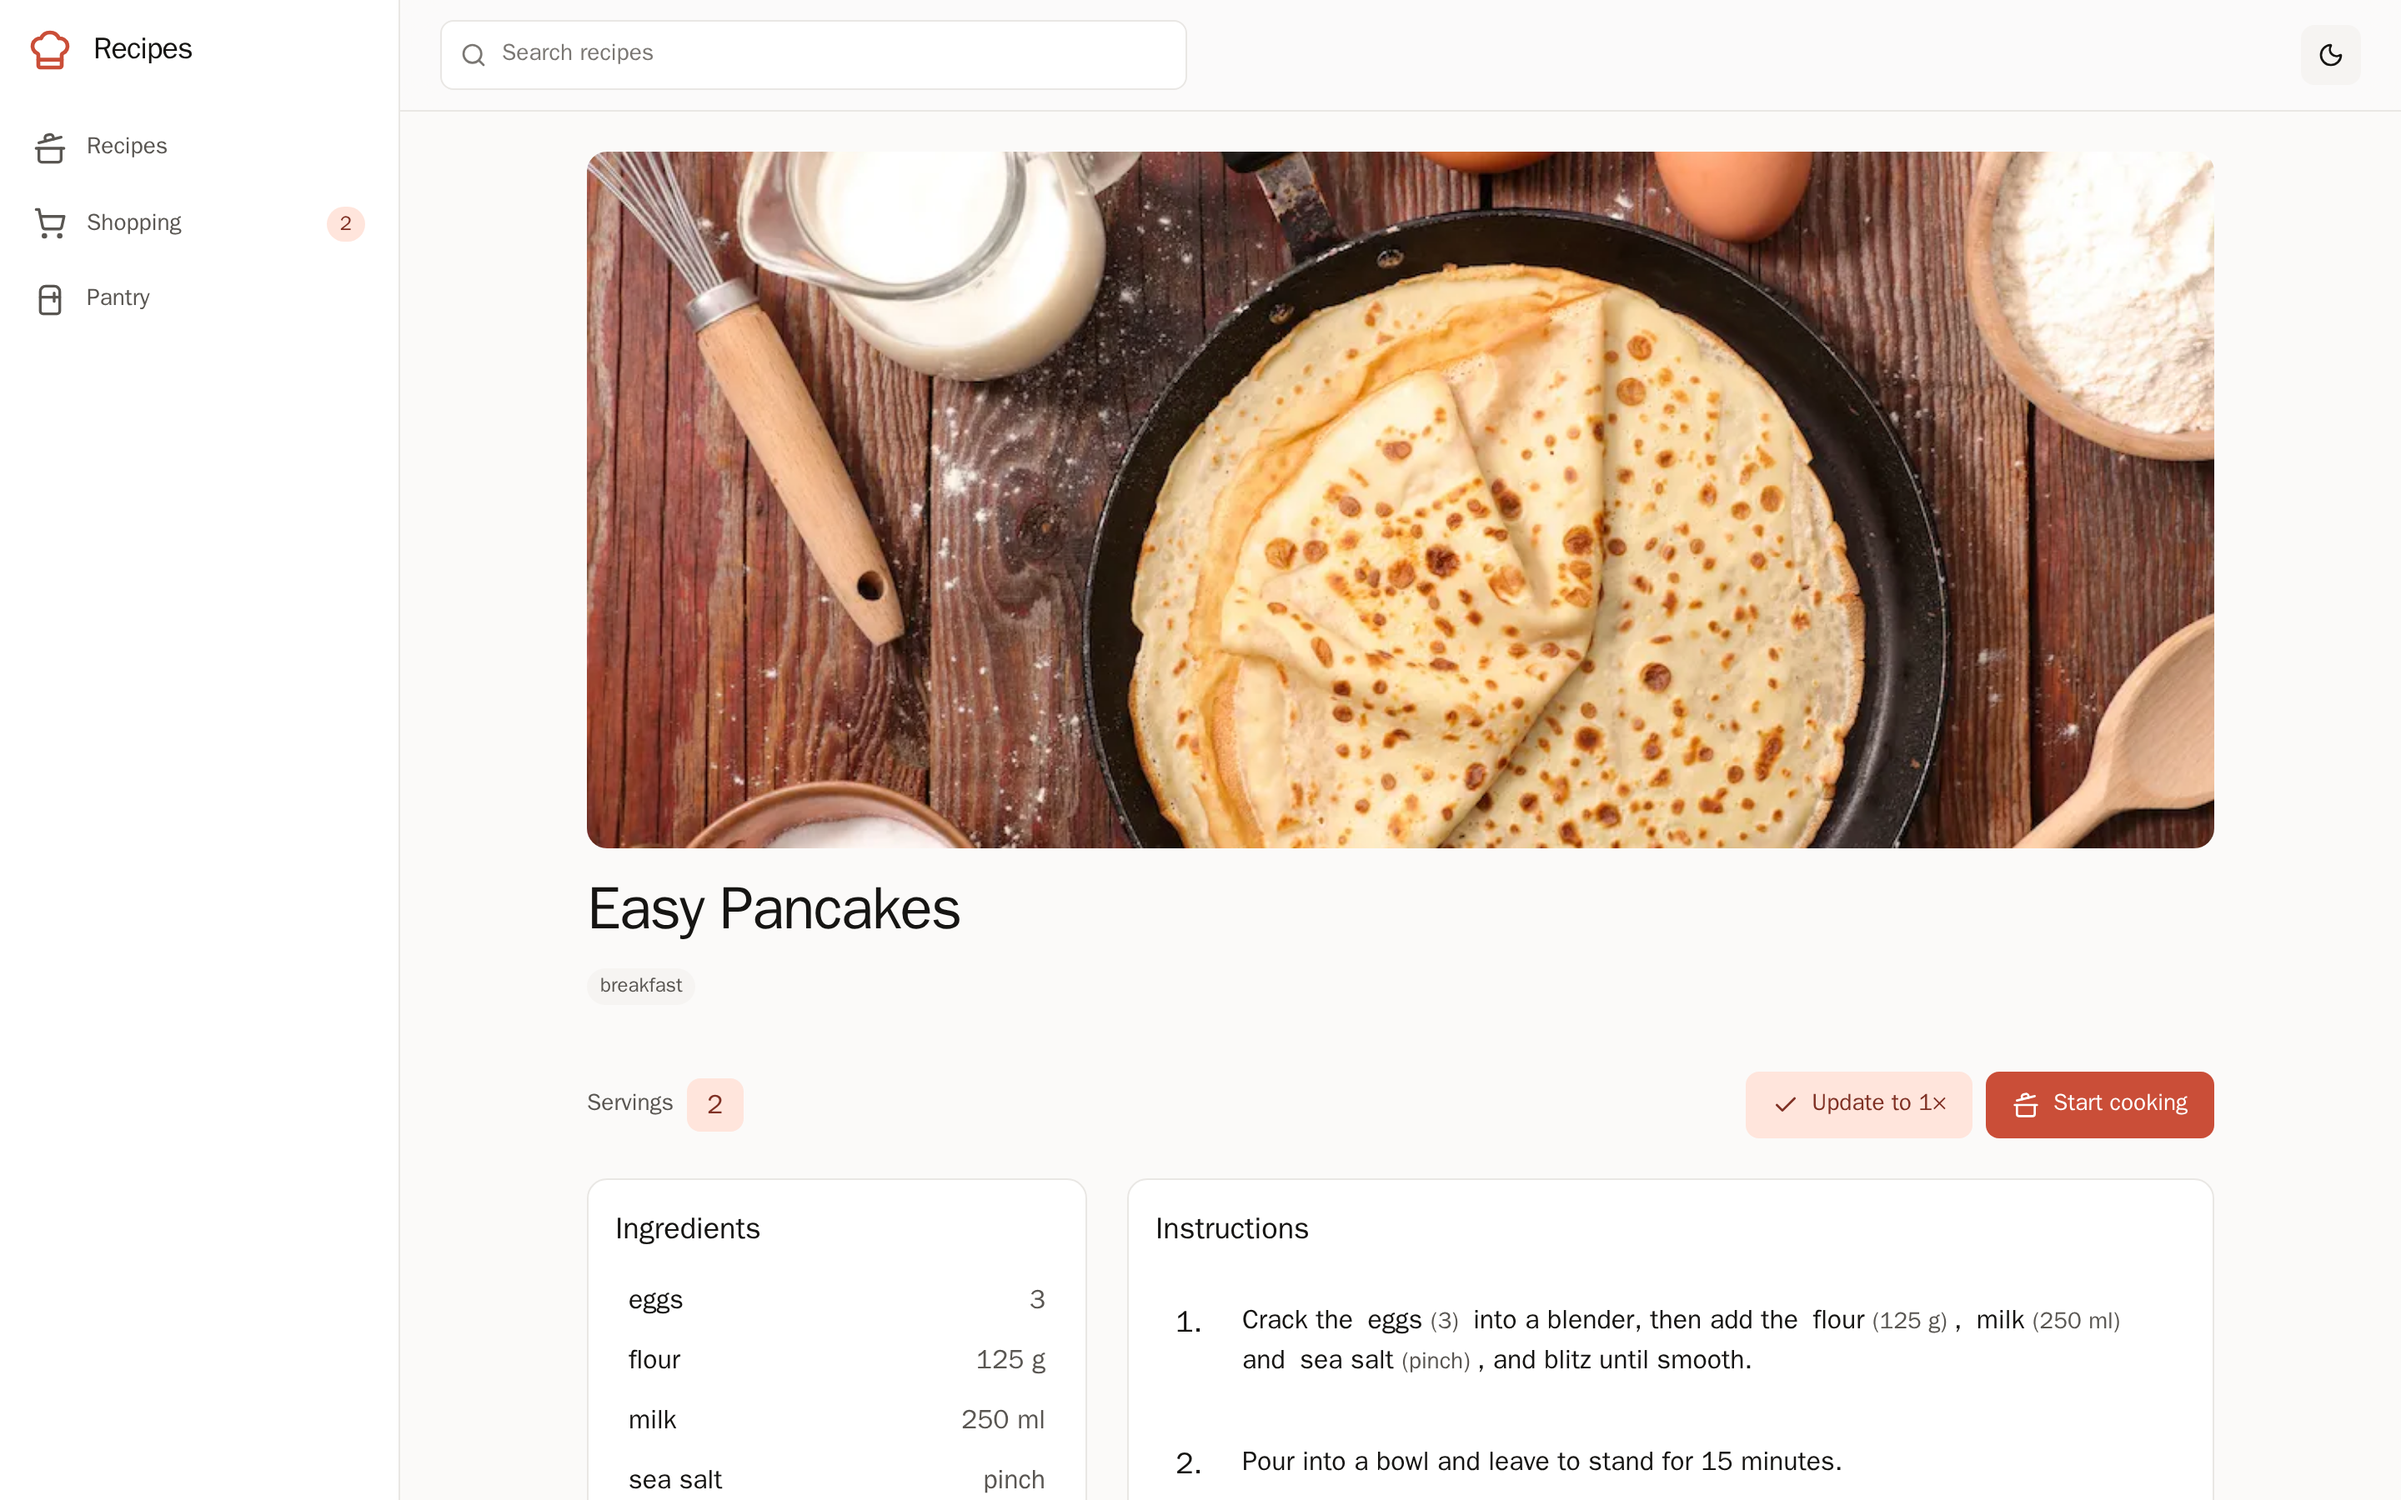
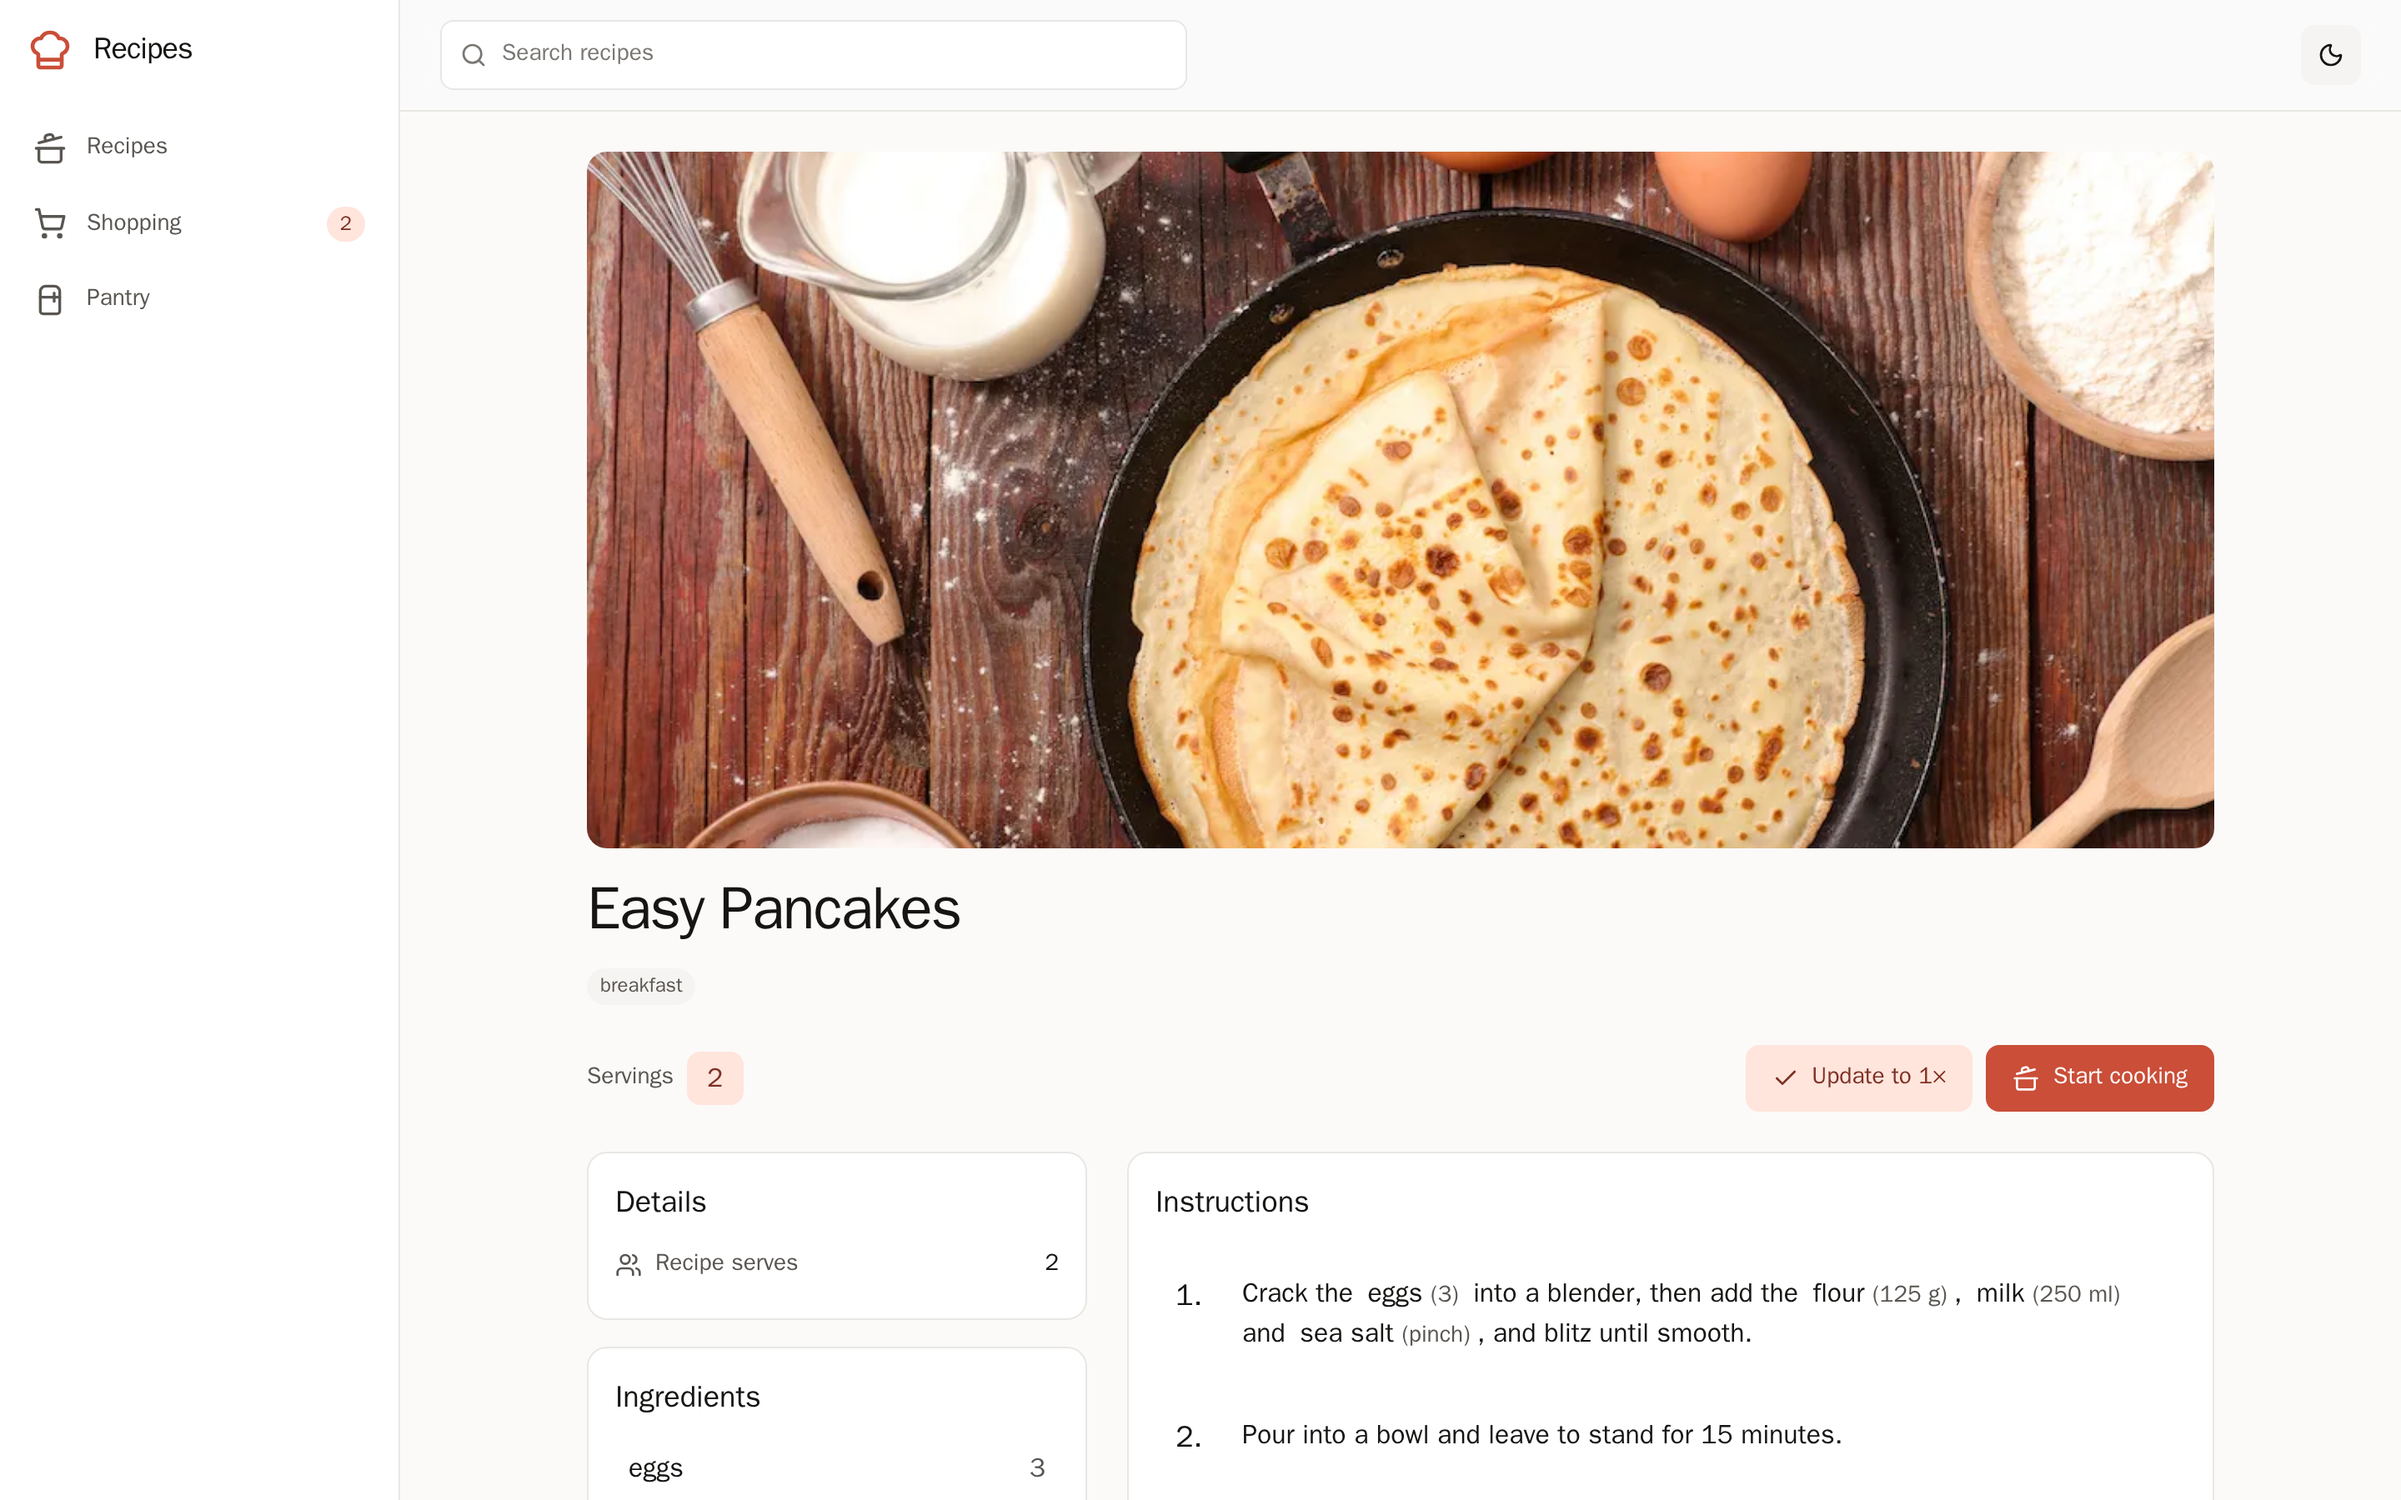
feat: show recipe frontmatter in a details box beside the ingredients
Servings, times, author and source were a single run-together line of muted
text under the title, where it was not obvious which number meant what. They
now sit in a labelled box at the top of the sidebar, above the ingredients,
one row per field with an icon and a right-aligned value.

Also carries `course` through to the detail page, which the index already
read but the recipe view never received.

Two details worth stating:

- The row is labelled "Recipe serves" rather than "Serves". The servings
  control directly above shows the scaled figure, so at 3x it would read 12
  next to a box saying 4; the box is what the file itself declares.
- A source with a URL but no name showed as "Link", which says nothing. It
  falls back to the host instead, so Neapolitan Pizza now reads
  "stadlermade.com".

Times render as separate Prep, Cook and Total rows when the recipe gives the
pair, and long durations read as "1 h 30 min" rather than "90 min". Rows are
omitted entirely when absent, so a recipe with only servings gets a one-row
box rather than a grid of blanks.

diff --git a/src/lib/components/recipes/RecipeMeta.svelte b/src/lib/components/recipes/RecipeMeta.svelte
@@ -1,0 +1,159 @@
+<script lang="ts">
+	import {
+		ClockIcon,
+		ExternalLinkIcon,
+		FlameIcon,
+		SoupIcon,
+		TimerIcon,
+		UsersIcon,
+		UserIcon
+	} from '@lucide/svelte';
+	import type { RecipeDisplay } from '$lib/types/recipe';
+	import Card from '$lib/components/ui/Card.svelte';
+
+	/**
+	 * The recipe's frontmatter, as a labelled box.
+	 *
+	 * This used to be a single line of muted text under the title, where the
+	 * values ran together and it was not obvious which number was which.
+	 */
+	interface Props {
+		recipe: RecipeDisplay;
+	}
+
+	const { recipe }: Props = $props();
+
+	function minutes(value: number): string {
+		if (value < 60) return `${value} min`;
+
+		const hours = Math.floor(value / 60);
+		const rest = value % 60;
+		return rest === 0 ? `${hours} h` : `${hours} h ${rest} min`;
+	}
+
+	/** Cooklang gives either a single total or a prep/cook pair. */
+	const times = $derived.by(() => {
+		const time = recipe.time;
+		if (!time) return [];
+
+		if (typeof time === 'number') {
+			return time > 0 ? [{ icon: ClockIcon, label: 'Time', value: minutes(time) }] : [];
+		}
+
+		const rows = [];
+		if (time.prep_time)
+			rows.push({ icon: TimerIcon, label: 'Prep', value: minutes(time.prep_time) });
+		if (time.cook_time)
+			rows.push({ icon: FlameIcon, label: 'Cook', value: minutes(time.cook_time) });
+
+		// Only worth a total when it is not just one of the two repeated.
+		if (time.prep_time && time.cook_time) {
+			rows.push({
+				icon: ClockIcon,
+				label: 'Total',
+				value: minutes(time.prep_time + time.cook_time)
+			});
+		}
+
+		return rows;
+	});
+
+	/**
+	 * A source with a URL but no name is common. "Link" says nothing, so fall
+	 * back to the host, which at least tells you where it came from.
+	 */
+	const sourceLabel = $derived.by(() => {
+		if (recipe.source?.name) return recipe.source.name;
+		if (!recipe.source?.url) return null;
+
+		try {
+			return new URL(recipe.source.url).hostname.replace(/^www\./, '');
+		} catch {
+			return 'Source';
+		}
+	});
+
+	const hasAnything = $derived(
+		Boolean(recipe.servings) ||
+			times.length > 0 ||
+			Boolean(recipe.course) ||
+			Boolean(recipe.author?.name) ||
+			Boolean(recipe.source?.name || recipe.source?.url)
+	);
+</script>
+
+{#if hasAnything}
+	<Card variant="outline" class="p-4">
+		<h2 class="text-fg mb-3 text-lg font-semibold">Details</h2>
+
+		<dl class="divide-border divide-y text-sm">
+			{#if recipe.servings}
+				<div class="flex items-center justify-between gap-3 py-1.5 first:pt-0">
+					<!-- "Recipe serves", not "Serves": the control above shows the
+					     scaled figure, this is what the file itself declares. -->
+					<dt class="text-fg-muted flex items-center gap-2">
+						<UsersIcon class="size-4 shrink-0" />
+						Recipe serves
+					</dt>
+					<dd class="text-fg font-medium tabular-nums">{recipe.servings}</dd>
+				</div>
+			{/if}
+
+			{#each times as row (row.label)}
+				<div class="flex items-center justify-between gap-3 py-1.5 first:pt-0">
+					<dt class="text-fg-muted flex items-center gap-2">
+						<row.icon class="size-4 shrink-0" />
+						{row.label}
+					</dt>
+					<dd class="text-fg font-medium tabular-nums">{row.value}</dd>
+				</div>
+			{/each}
+
+			{#if recipe.course}
+				<div class="flex items-center justify-between gap-3 py-1.5 first:pt-0">
+					<dt class="text-fg-muted flex items-center gap-2">
+						<SoupIcon class="size-4 shrink-0" />
+						Course
+					</dt>
+					<dd class="text-fg font-medium capitalize">{recipe.course}</dd>
+				</div>
+			{/if}
+
+			{#if recipe.author?.name}
+				<div class="flex items-center justify-between gap-3 py-1.5 first:pt-0">
+					<dt class="text-fg-muted flex items-center gap-2">
+						<UserIcon class="size-4 shrink-0" />
+						Author
+					</dt>
+					<dd class="min-w-0 truncate text-right font-medium">
+						{#if recipe.author.url}
+							<a href={recipe.author.url} class="link" target="_blank" rel="noopener noreferrer"
+								>{recipe.author.name}</a
+							>
+						{:else}
+							<span class="text-fg">{recipe.author.name}</span>
+						{/if}
+					</dd>
+				</div>
+			{/if}
+
+			{#if sourceLabel}
+				<div class="flex items-center justify-between gap-3 py-1.5 first:pt-0">
+					<dt class="text-fg-muted flex items-center gap-2">
+						<ExternalLinkIcon class="size-4 shrink-0" />
+						Source
+					</dt>
+					<dd class="min-w-0 truncate text-right font-medium">
+						{#if recipe.source?.url}
+							<a href={recipe.source.url} class="link" target="_blank" rel="noopener noreferrer"
+								>{sourceLabel}</a
+							>
+						{:else}
+							<span class="text-fg">{sourceLabel}</span>
+						{/if}
+					</dd>
+				</div>
+			{/if}
+		</dl>
+	</Card>
+{/if}

diff --git a/src/lib/components/recipes/RecipeHeader.svelte b/src/lib/components/recipes/RecipeHeader.svelte
@@ -44,29 +44,6 @@
 		</div>
 	{/if}
 
-	<div class="text-fg-muted flex flex-wrap gap-x-4 gap-y-1 text-sm">
-		{#if recipe.source?.url}
-			<a href={recipe.source.url} class="link" target="_blank" rel="noopener noreferrer">
-				{recipe.source.name ?? 'Source'}
-			</a>
-		{:else if recipe.source?.name}
-			<span>{recipe.source.name}</span>
-		{/if}
-
-		{#if recipe.author?.name}
-			<span>by {recipe.author.name}</span>
-		{/if}
-
-		{#if recipe.time}
-			<span>
-				{#if typeof recipe.time === 'number'}
-					{recipe.time} min
-				{:else}
-					{#if recipe.time.prep_time}Prep {recipe.time.prep_time} min{/if}
-					{#if recipe.time.prep_time && recipe.time.cook_time}·{/if}
-					{#if recipe.time.cook_time}Cook {recipe.time.cook_time} min{/if}
-				{/if}
-			</span>
-		{/if}
-	</div>
+	<!-- Servings, times, author and source live in RecipeMeta, beside the
+	     ingredients, rather than as a run-together line of text here. -->
 </header>

diff --git a/src/lib/components/recipes/RecipeView.svelte b/src/lib/components/recipes/RecipeView.svelte
@@ -6,6 +6,7 @@
 	import { parseTimerQuantity } from '$lib/utils/timer';
 	import { playAlertSound } from '$lib/utils/audio';
 	import RecipeHeader from './RecipeHeader.svelte';
+	import RecipeMeta from './RecipeMeta.svelte';
 	import RecipeIngredients from './RecipeIngredients.svelte';
 	import RecipeCookware from './RecipeCookware.svelte';
 	import RecipeSteps from './RecipeSteps.svelte';
@@ -249,6 +250,7 @@
 
 	<div class="grid gap-6 lg:grid-cols-[300px_1fr]">
 		<aside class="space-y-4 lg:sticky lg:top-20 lg:self-start">
+			<RecipeMeta {recipe} />
 			<RecipeIngredients
 				ingredients={recipe.ingredients}
 				hoveredIndex={hoveredIngredientIndex}

diff --git a/src/lib/types/recipe.ts b/src/lib/types/recipe.ts
@@ -70,6 +70,7 @@ export interface RecipeDisplay {
 	tags: string[];
 	author?: { name?: string; url?: string };
 	source?: { name?: string; url?: string };
+	course?: string | null;
 	servings?: number | string;
 	time?: number | { prep_time?: number; cook_time?: number };
 	ingredients: IngredientDisplay[];

diff --git a/src/lib/server/recipes/parse.ts b/src/lib/server/recipes/parse.ts
@@ -150,6 +150,7 @@ export async function getRecipeDisplay(entry: RecipeEntry, scale: number): Promi
 		tags: Array.from(recipe.tags ?? []),
 		author: recipe.author,
 		source: recipe.source,
+		course: recipe.course ?? null,
 		servings: recipe.servings,
 		time: recipe.time,
 		ingredients,
